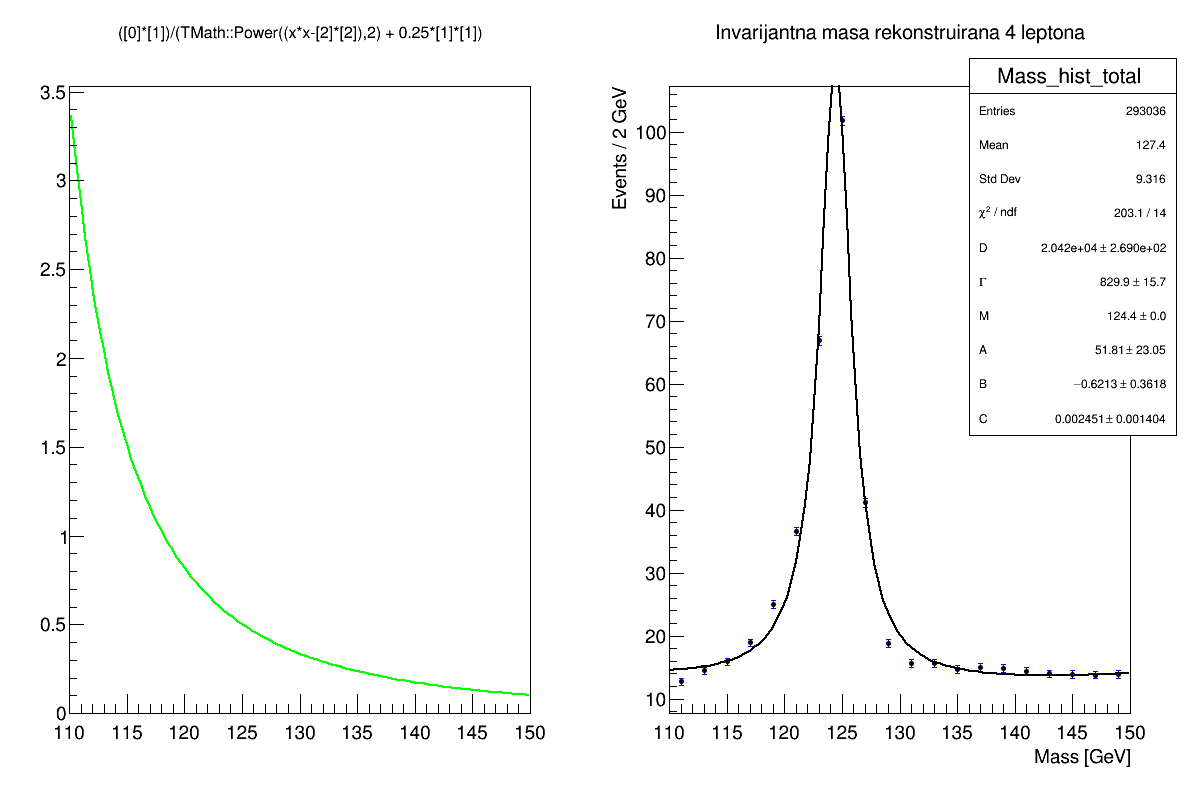
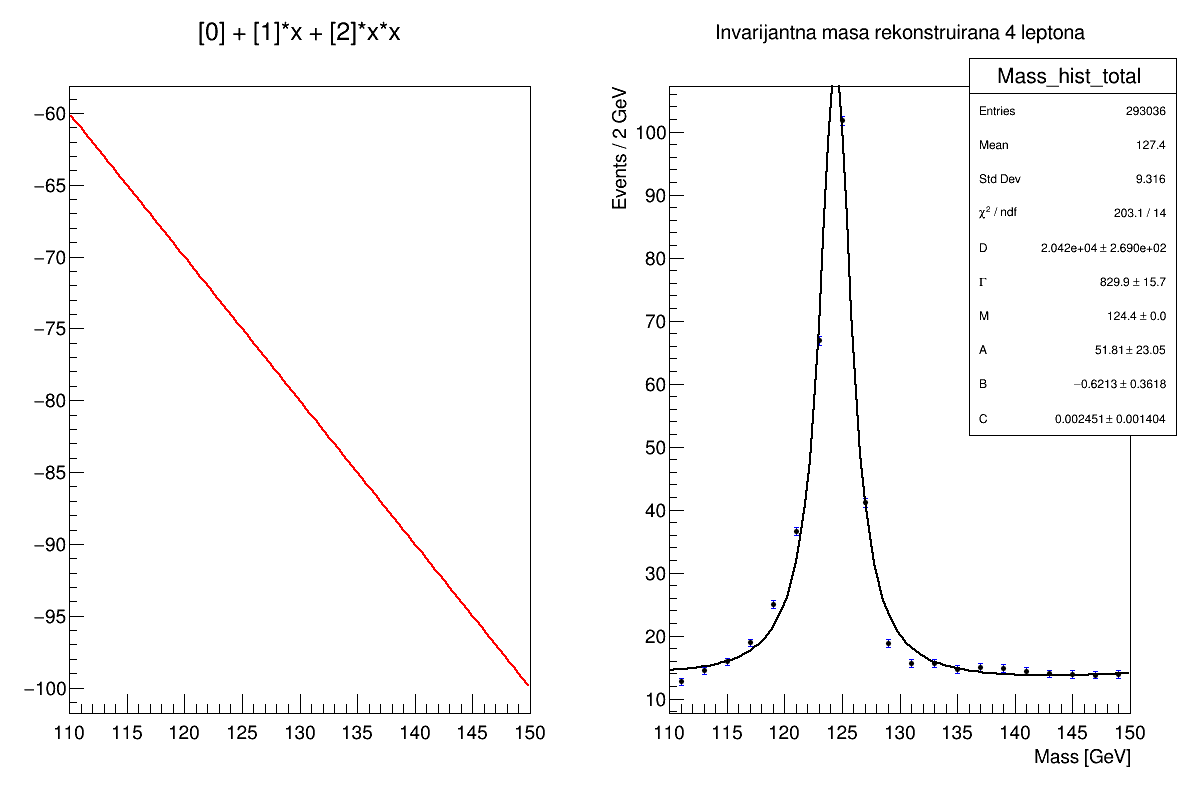
Vjezba8

diff --git a/Vjezbe_8/Analyzer.cpp b/Vjezbe_8/Analyzer.cpp
@@ -454,7 +454,7 @@ void Analyzer::FitHiggs(){
 	canvas -> cd (1);
 	total -> Draw ();
 	BW -> Draw (/*"SAME"*/);
-	Q -> Draw ("SAME");
+	Q -> Draw (/*"SAME"*/);
 	
 	canvas -> cd (2);
 	
